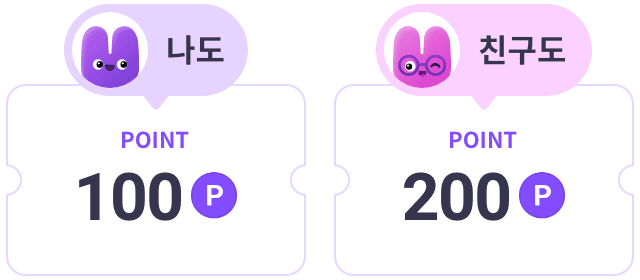
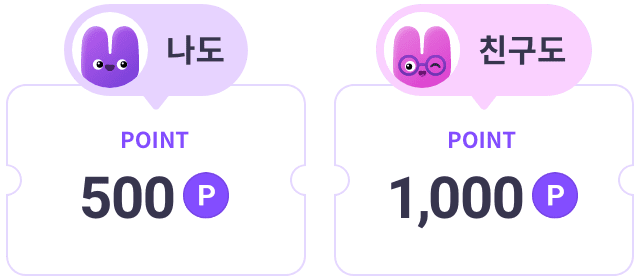
fix: 친구초대 이벤트 포인트 변경으로 인한 퍼블리싱 수정

diff --git a/src/html/pages-2301/포인트 적립_1.친구 초대.html b/src/html/pages-2301/포인트 적립_1.친구 초대.html
@@ -9,7 +9,7 @@
 		</div>
 		<div class="contents event-invite lifestyle">
 			<div class="event-invite-wrap">
-				<span class="invite-date">25.02.27 ~ 25.05.31</span>
+				<span class="invite-date">25.02.27 ~ 25.12.31</span>
 				<p class="invite-title">친구 초대하고 <br>함께 포인트 받자</p>
 				<p class="invite-desc">초대받은 친구가 <span class="f-point">내 초대 코드를 입력</span>하면 <br>친구도 나도 포인트를 받아요</p>
 				<a href="#" target="_blank" rel="noopener noreferrer" class="invite-btn">
@@ -36,7 +36,7 @@
 				<strong>꼭 확인해주세요!</strong>
 				<p>행사 기간</p>
 				<ul class="dash-list">
-					<li>2025.02.27 ~ 2025.05.31</li>
+					<li>2025.02.27 ~ 2025.12.31</li>
 				</ul>
 				<p>안내 사항</p>
 				<ul class="dash-list">

diff --git a/src/html/pages-2301/포인트 적립_1.친구 초대_토스트 팝업.html b/src/html/pages-2301/포인트 적립_1.친구 초대_토스트 팝업.html
@@ -9,7 +9,7 @@
 		</div>
 		<div class="contents event-invite lifestyle">
 			<div class="event-invite-wrap">
-				<span class="invite-date">25.02.27 ~ 25.05.31</span>
+				<span class="invite-date">25.02.27 ~ 25.12.31</span>
 				<p class="invite-title">친구 초대하고 <br>함께 포인트 받자</p>
 				<p class="invite-desc">초대받은 친구가 <span class="f-point">내 초대 코드를 입력</span>하면 <br>친구도 나도 포인트를 받아요</p>
 				<a href="#" target="_blank" rel="noopener noreferrer" class="invite-btn">
@@ -36,7 +36,7 @@
 				<strong>꼭 확인해주세요!</strong>
 				<p>행사 기간</p>
 				<ul class="dash-list">
-					<li>2025.02.27 ~ 2025.05.31</li>
+					<li>2025.02.27 ~ 2025.12.31</li>
 				</ul>
 				<p>안내 사항</p>
 				<ul class="dash-list">

diff --git a/src/html/pages-2301/포인트 적립_1.친구 초대_플로팅 버튼.html b/src/html/pages-2301/포인트 적립_1.친구 초대_플로팅 버튼.html
@@ -9,7 +9,7 @@
 		</div>
 		<div class="contents event-invite lifestyle">
 			<div class="event-invite-wrap">
-				<span class="invite-date">25.02.27 ~ 25.05.31</span>
+				<span class="invite-date">25.02.27 ~ 25.12.31</span>
 				<p class="invite-title">친구 초대하고 <br>함께 포인트 받자</p>
 				<p class="invite-desc">초대받은 친구가 <span class="f-point">내 초대 코드를 입력</span>하면 <br>친구도 나도 포인트를 받아요</p>
 				<a href="#" target="_blank" rel="noopener noreferrer" class="invite-btn">
@@ -36,7 +36,7 @@
 				<strong>꼭 확인해주세요!</strong>
 				<p>행사 기간</p>
 				<ul class="dash-list">
-					<li>2025.02.27 ~ 2025.05.31</li>
+					<li>2025.02.27 ~ 2025.12.31</li>
 				</ul>
 				<p>안내 사항</p>
 				<ul class="dash-list">

diff --git a/src/html/pages-2301/포인트 적립_2.초대 코드 입력_입력 중.html b/src/html/pages-2301/포인트 적립_2.초대 코드 입력_입력 중.html
@@ -13,7 +13,7 @@
                 <p class="title">
                     <span class="f-point">친구에게 받은 <br>초대코드</span>를 입력해주세요
                 </p>
-                <p class="noti">초대코드를 입력하면 <span class="f-point">200포인트</span> 받아요!</p>
+                <p class="noti">초대코드를 입력하면 <span class="f-point">1,000포인트</span> 받아요!</p>
                 <div class="custom-light _focus code-input-box">
                     <label class="title">초대코드 입력</label>
                     <input title="value" type="text" onkeyup="countCharDelete(this)" placeholder="공유받은 초대코드를 입력해주세요." value="12ABCDEFG123" />

diff --git a/src/html/pages-2301/포인트 적립_4.초대 코드 입력_토스트(1.탈퇴한 회원의 초대코드를 입력한 경우).html b/src/html/pages-2301/포인트 적립_4.초대 코드 입력_토스트(1.탈퇴한 회원의 초대코드를 입력한 경우).html
@@ -13,7 +13,7 @@
                 <p class="title">
                     <span class="f-point">친구에게 받은 <br>초대코드</span>를 입력해주세요
                 </p>
-                <p class="noti">초대코드를 입력하면 <span class="f-point">200포인트</span> 받아요!</p>
+                <p class="noti">초대코드를 입력하면 <span class="f-point">1,000포인트</span> 받아요!</p>
                 <div class="custom-light _focus code-input-box">
                     <label class="title">초대코드 입력</label>
                     <input title="value" type="text" onkeyup="countCharDelete(this)" placeholder="공유받은 초대코드를 입력해주세요." value="12ABCDEFG123" />

diff --git a/src/html/pages-2301/포인트 적립_4.초대 코드 입력_토스트(2.내가 초대한 회원의 초대코드를 입력한 경우).html b/src/html/pages-2301/포인트 적립_4.초대 코드 입력_토스트(2.내가 초대한 회원의 초대코드를 입력한 경우).html
@@ -13,7 +13,7 @@
                 <p class="title">
                     <span class="f-point">친구에게 받은 <br>초대코드</span>를 입력해주세요
                 </p>
-                <p class="noti">초대코드를 입력하면 <span class="f-point">200포인트</span> 받아요!</p>
+                <p class="noti">초대코드를 입력하면 <span class="f-point">1,000포인트</span> 받아요!</p>
                 <div class="custom-light _focus code-input-box">
                     <label class="title">초대코드 입력</label>
                     <input title="value" type="text" onkeyup="countCharDelete(this)" placeholder="공유받은 초대코드를 입력해주세요." value="12ABCDEFG123" />

diff --git a/src/html/pages-2301/포인트 적립_4.초대 코드 입력_토스트(3.그 외 케이스).html b/src/html/pages-2301/포인트 적립_4.초대 코드 입력_토스트(3.그 외 케이스).html
@@ -13,7 +13,7 @@
                 <p class="title">
                     <span class="f-point">친구에게 받은 <br>초대코드</span>를 입력해주세요
                 </p>
-                <p class="noti">초대코드를 입력하면 <span class="f-point">200포인트</span> 받아요!</p>
+                <p class="noti">초대코드를 입력하면 <span class="f-point">1,000포인트</span> 받아요!</p>
                 <div class="custom-light _focus code-input-box">
                     <label class="title">초대코드 입력</label>
                     <input title="value" type="text" onkeyup="countCharDelete(this)" placeholder="공유받은 초대코드를 입력해주세요." value="12ABCDEFG123" />

diff --git a/src/html/pages-2301/포인트 적립_4.초대 코드 입력_토스트(4.본인 초대코드를 입력한 경우).html b/src/html/pages-2301/포인트 적립_4.초대 코드 입력_토스트(4.본인 초대코드를 입력한 경우).html
@@ -13,7 +13,7 @@
                 <p class="title">
                     <span class="f-point">친구에게 받은 <br>초대코드</span>를 입력해주세요
                 </p>
-                <p class="noti">초대코드를 입력하면 <span class="f-point">200포인트</span> 받아요!</p>
+                <p class="noti">초대코드를 입력하면 <span class="f-point">1,000포인트</span> 받아요!</p>
                 <div class="custom-light _focus code-input-box">
                     <label class="title">초대코드 입력</label>
                     <input title="value" type="text" onkeyup="countCharDelete(this)" placeholder="공유받은 초대코드를 입력해주세요." value="12ABCDEFG123" />

diff --git a/src/html/pages-2301/포인트 적립_2.초대 코드 입력_입력 전.html b/src/html/pages-2301/포인트 적립_2.초대 코드 입력_입력 전.html
@@ -13,7 +13,7 @@
                 <p class="title">
                     <span class="f-point">친구에게 받은 <br>초대코드</span>를 입력해주세요
                 </p>
-                <p class="noti">초대코드를 입력하면 <span class="f-point">200포인트</span> 받아요!</p>
+                <p class="noti">초대코드를 입력하면 <span class="f-point">1,000포인트</span> 받아요!</p>
                 <div class="custom-light _focus code-input-box">
                     <label class="title">초대코드 입력</label>
                     <input title="value" type="text" onkeyup="countCharDelete(this)" placeholder="공유받은 초대코드를 입력해주세요." />

diff --git a/src/html/pages-2301/포인트 적립_3.팝업(4.초대코드 최초 입력 성공).html b/src/html/pages-2301/포인트 적립_3.팝업(4.초대코드 최초 입력 성공).html
@@ -8,7 +8,7 @@
 		<div class="modal-content pt-0">
 			<div class="modal-body py-5">
 				<div class="invite-txt">
-					초대코드 입력 완료! <br>200포인트가 적립되었어요
+					초대코드 입력 완료! <br>1,000포인트가 적립되었어요
 				</div>
 			</div>
 			<div class="modal-footer">

diff --git a/src/html/pages-2301/포인트 적립_3.팝업(2.초대코드 이미 입력한 case).html b/src/html/pages-2301/포인트 적립_3.팝업(2.초대코드 이미 입력한 case).html
@@ -8,7 +8,7 @@
 		<div class="modal-content pt-0">
 			<div class="modal-body py-5">
 				<div class="invite-txt">
-					이미 초대코드를 입력하고 <br>200포인트를 받았어요
+					이미 초대코드를 입력하고 <br>포인트를 받았어요
 				</div>
 			</div>
 			<div class="modal-footer">
